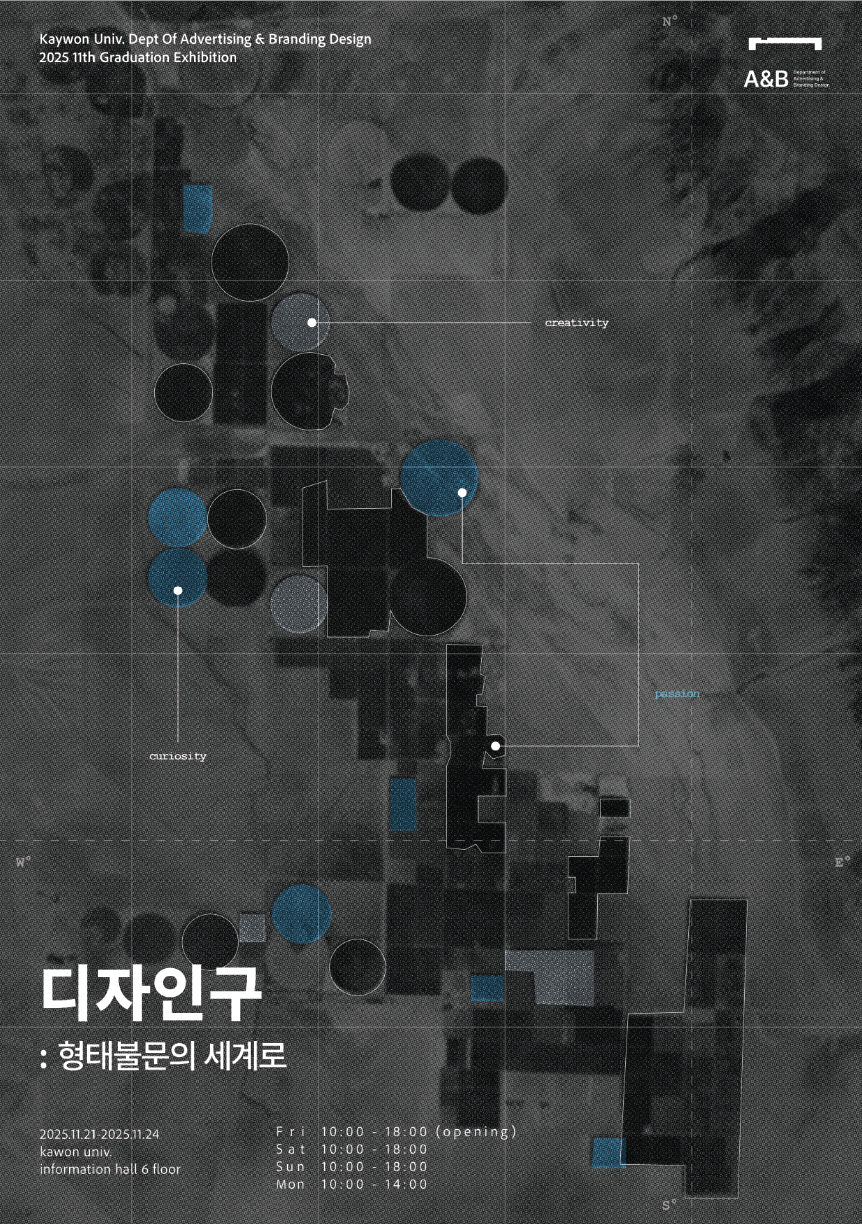
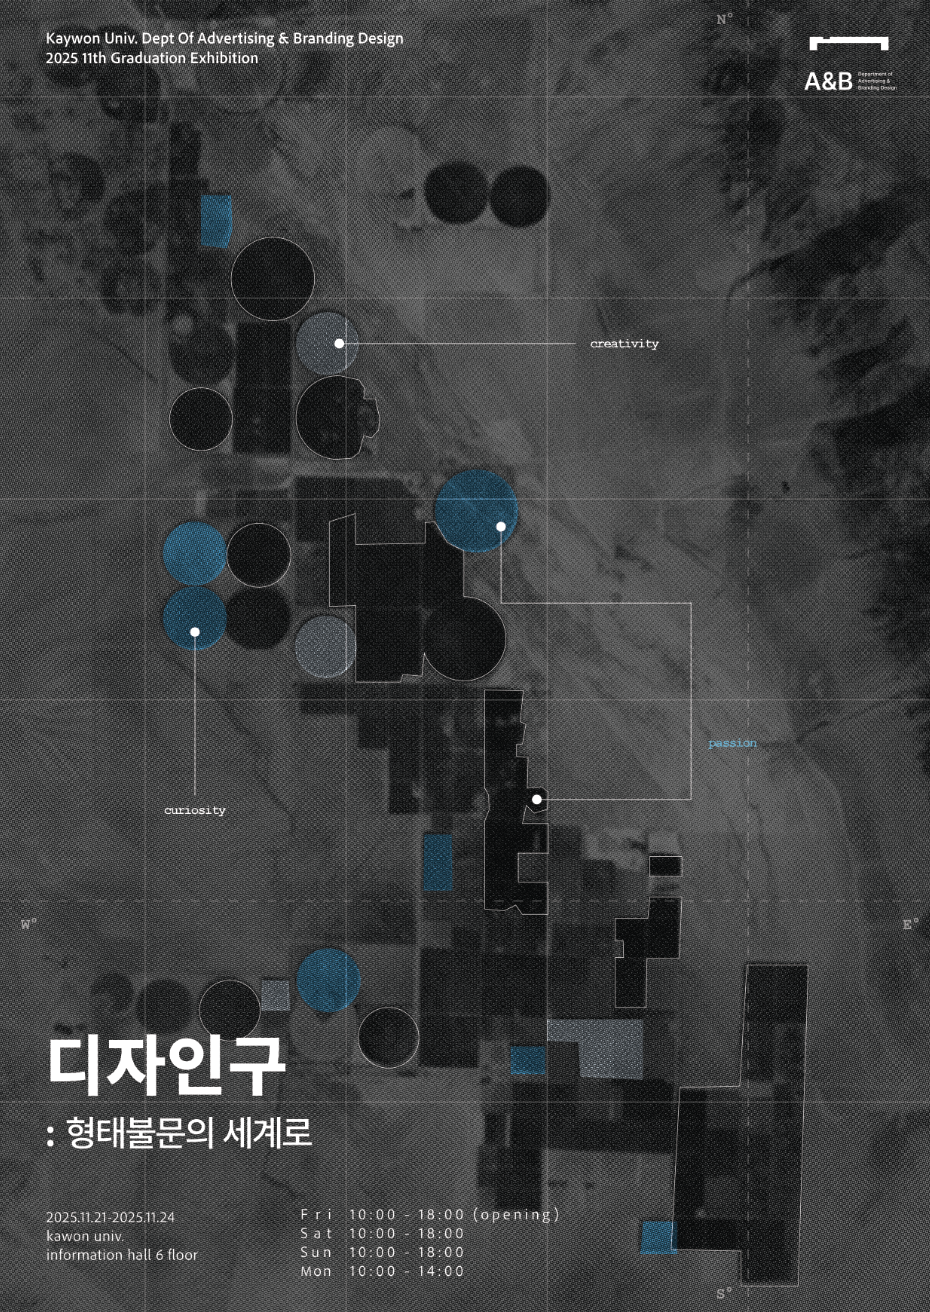
Update portfolio images

Changed region(s): [[0.0, 0.0, 1.0, 1.0]]

diff --git a/script.js b/script.js
@@ -25,7 +25,7 @@ const projects = [
     id: "appocalipse",
     category: "graphic",
     country: "Japan",
-    image: "images/appocalipse.jpg",
+    image: "images/appocalipse.png",
     number: "No.3",
     date: "2026/01/03",
     title: "Appocalipse",
